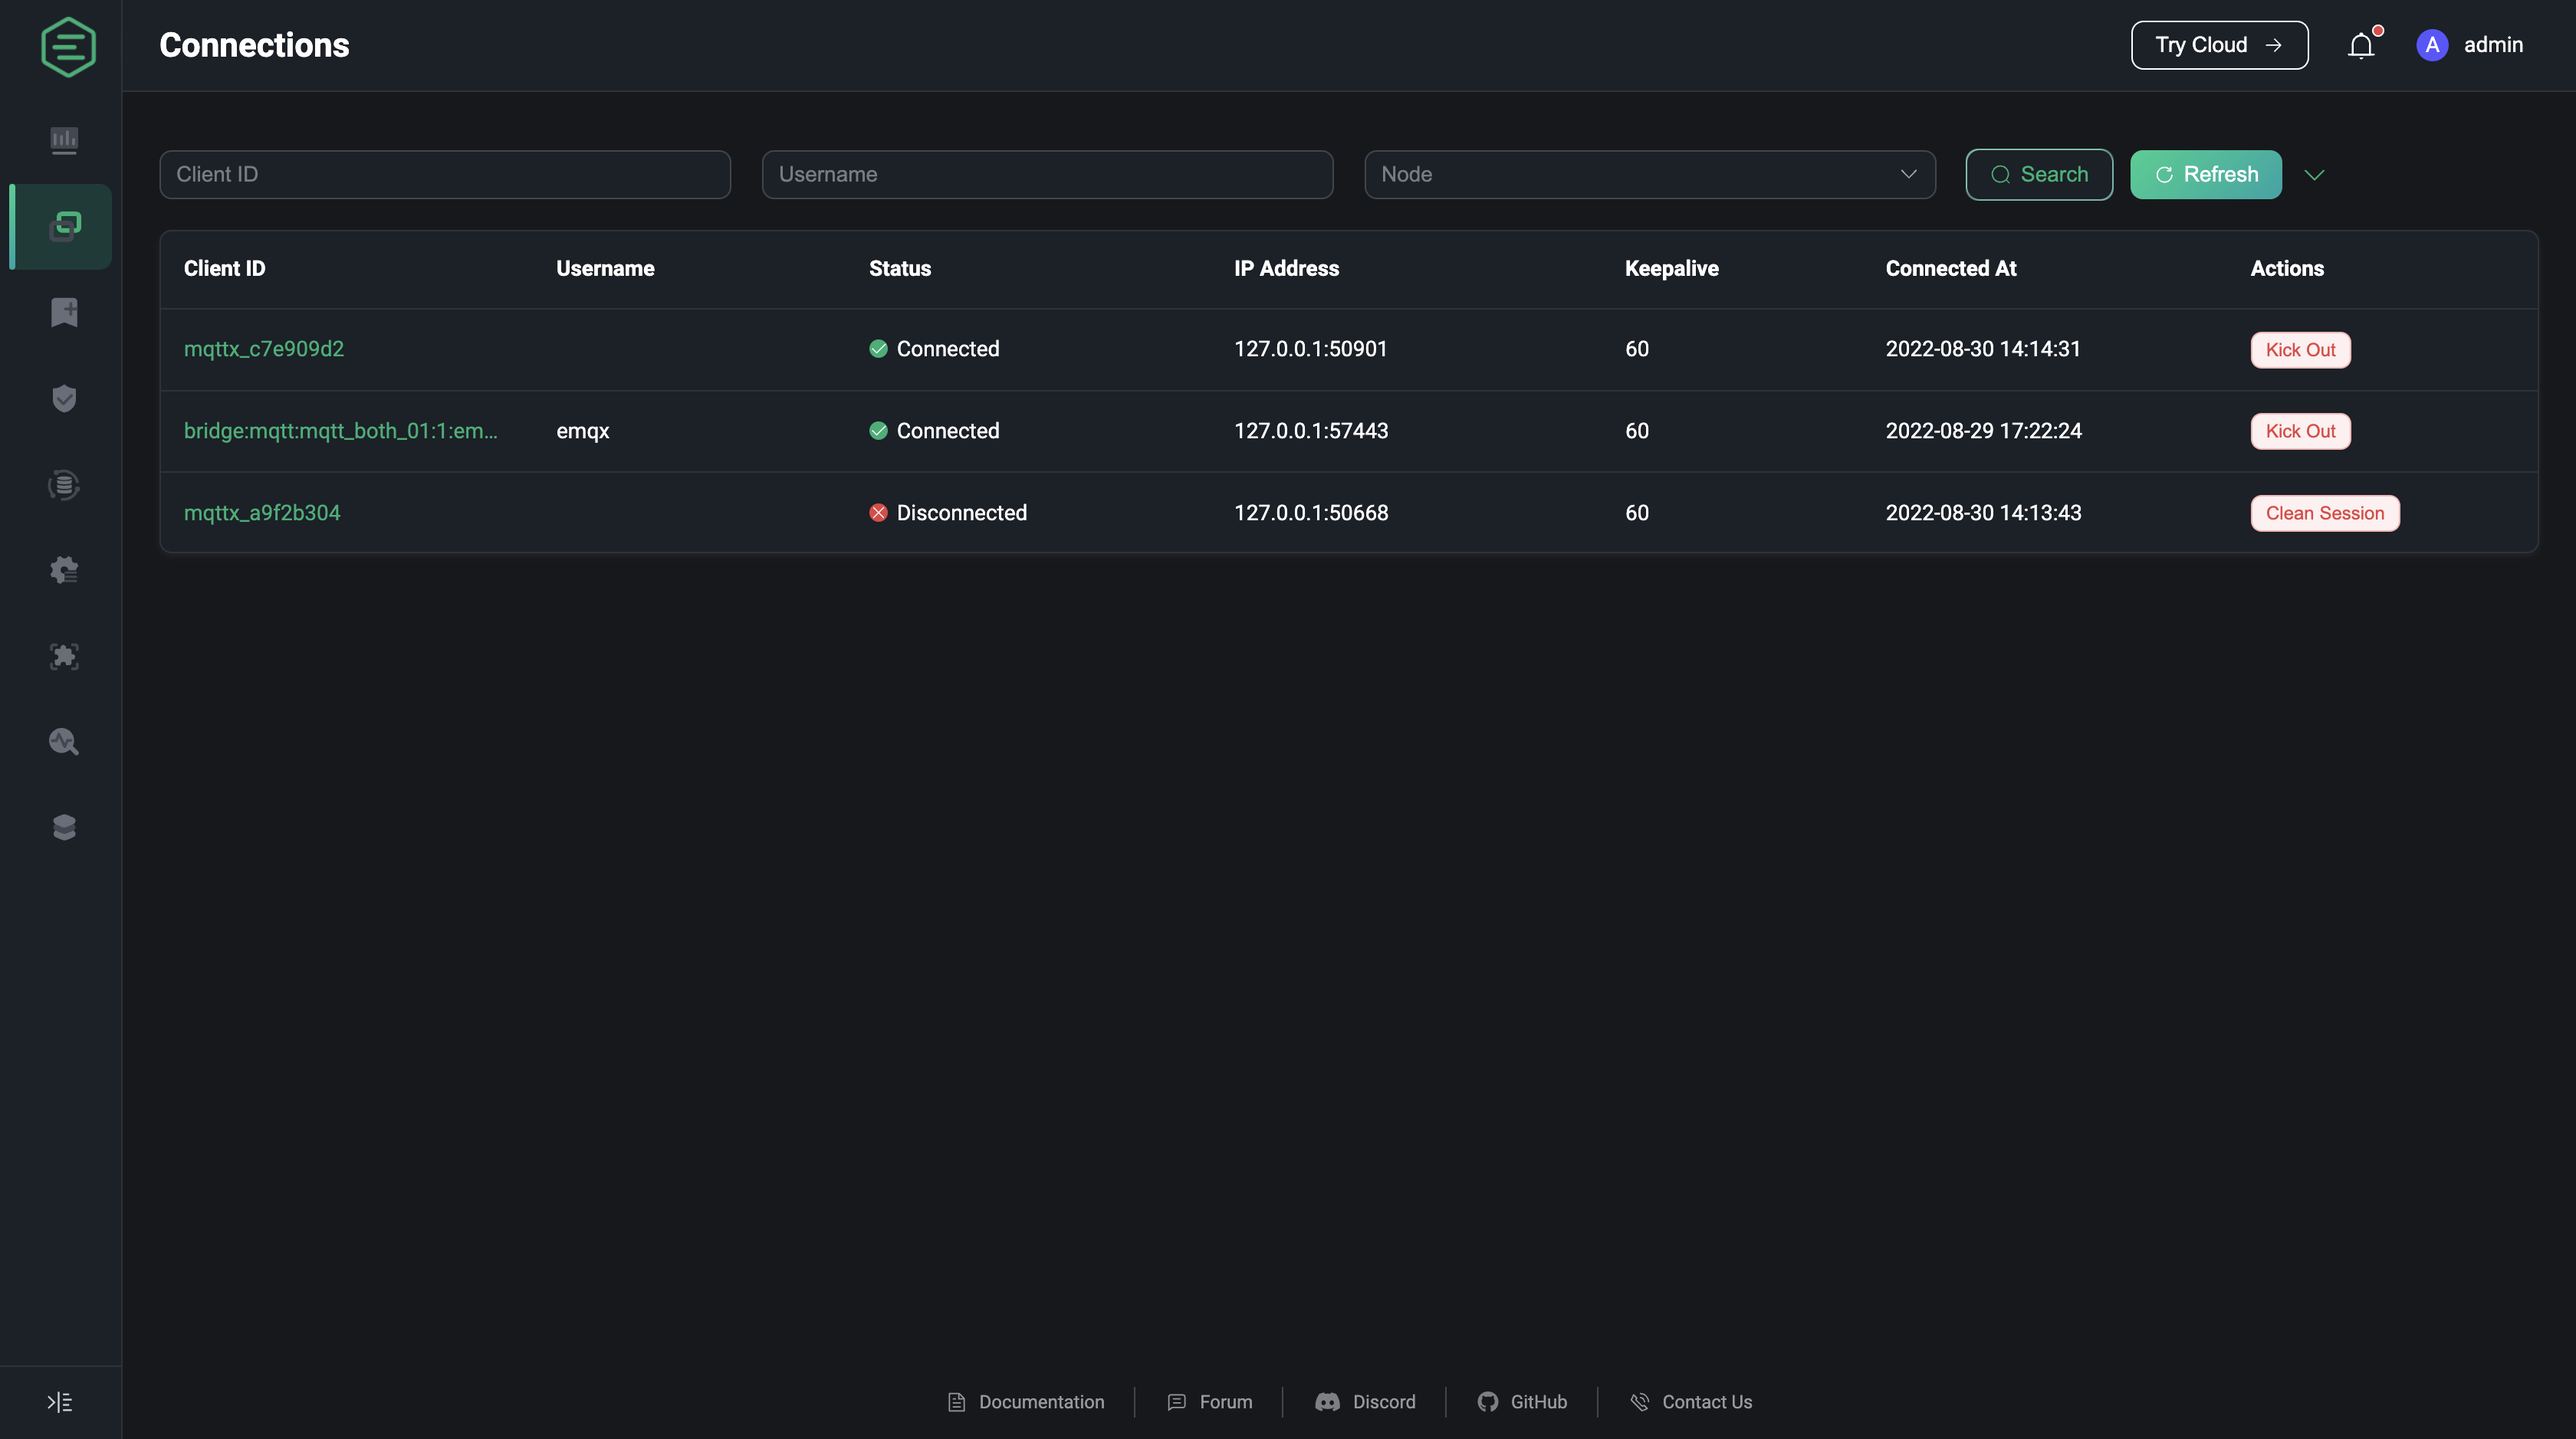
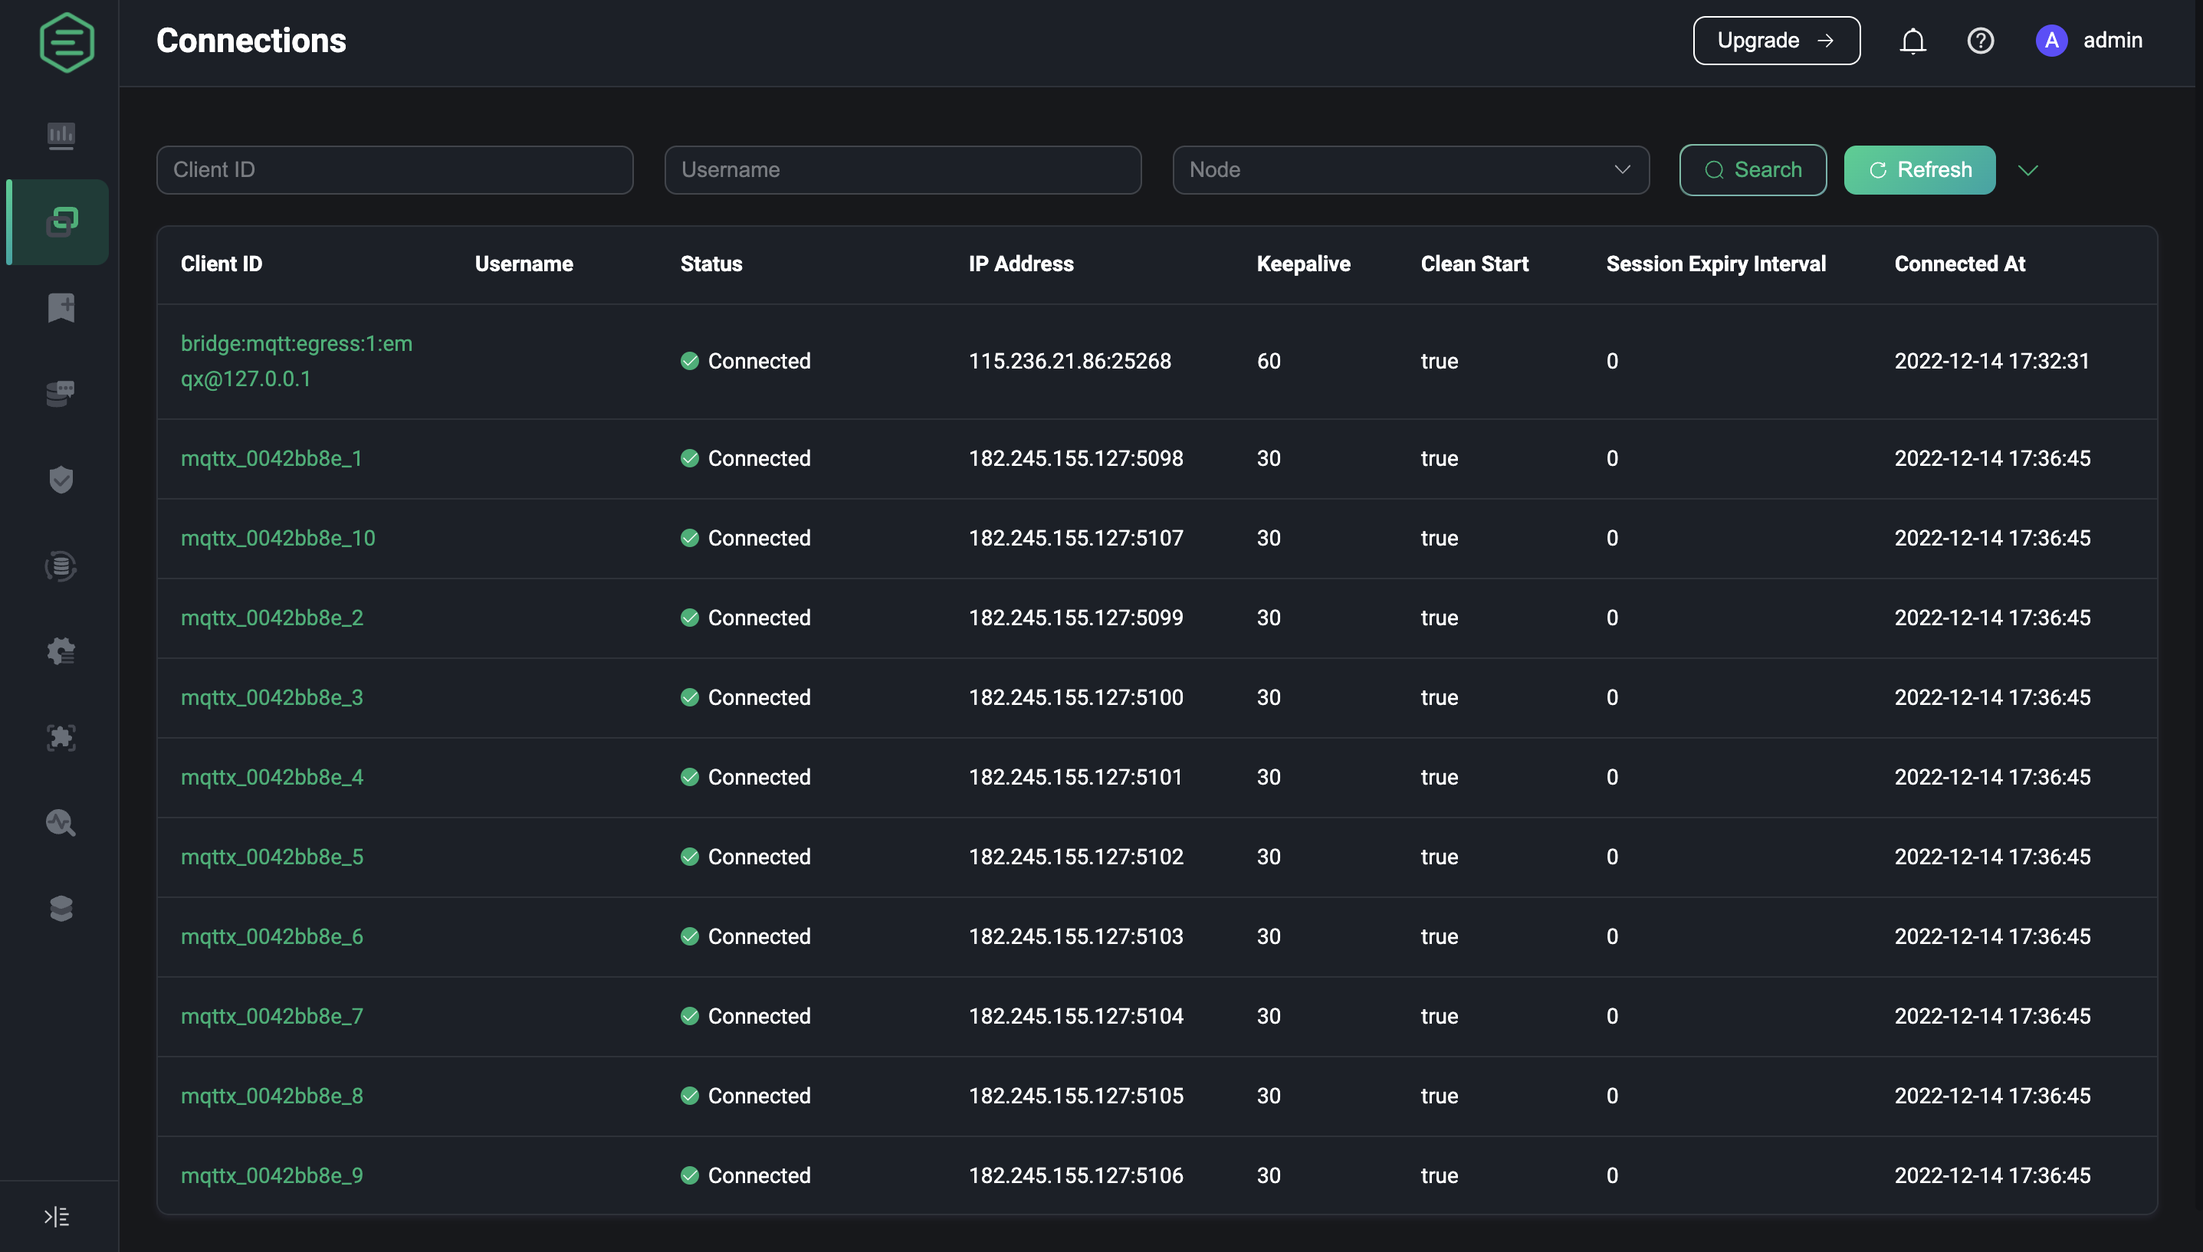
docs(dashboard): update connections

diff --git a/en_US/dashboard/connections/connections.md b/en_US/dashboard/connections/connections.md
@@ -4,7 +4,9 @@ Users can view clients currently connecting to the broker or session which has n
 
 ## Connection List
 
-In the connection list, users can view the list of connections that are currently connected to the EMQX or the session has not expired and the basic information of the connection. The list will show the ID and username set by each client when connecting to EMQX, the current connection status, the IP address of the client, the heartbeat time set for the connection which is the maximum idle time of the connection and which time the client connected to EMQX; the IP address data of the client consists of the IP address of the client and the port of the client used by the client when connecting to EMQX, and the client can be kicked out from the list.
+In the connection list, users can view the list of connections that are currently connected to the EMQX or the session has not expired and the basic information of the connection. The list will show the ID and username set by each client when connecting to EMQX, the current connection status, the IP address of the client, the heartbeat time set for the connection which is the maximum idle time of the connection and which time the client connected to EMQX, and about the session, including the Clean Start Session and Expiry Interval.
+
+The IP address data of the client consists of the IP address of the client and the port of the client used by the client when connecting to EMQX.
 
 By default only the client ID, username and node filters are displayed on the page, click on the arrow button to the right of the search bar to display all the fields available for filtering; you can perform a fuzzy search using the client ID and username to filter the list of connections, select the node to which the connection belongs, the connection status or the time range of the connection to filter the list, or enter the exact IP of the connected client to filter the clients with the target IP address, click on the Refresh button to reset all the filter fields and reload the list of connections.
 
@@ -14,6 +16,8 @@ By default only the client ID, username and node filters are displayed on the pa
 
 On the connection list page, select a connection and click on the client ID to access the connection details page for that connection.
 
+The connection details page allows you to refresh the connection information and metrics at the top manually. You can also use this page to kick out or clear the connection manually.
+
 On the connection details page, in addition to the basic connection information already displayed on the list page, more detailed information is provided for the user to view, such as the protocol version used for the connection, whether the session is cleared after ending the connection, etc. In the case of a connection with a disconnected status, the time of the last disconnection is also displayed; the left side of the connection information shows the session information for the connection, including the session expiry interval, session creation time, process stack, number of subscriptions, heap size, inflight and QoS 2 message receive queue.
 
 Below the connection information, the statistics of the current connection are displayed according to three categories: traffic sent and received, messages and number of messages, which can be viewed by the user as required.
@@ -21,4 +25,3 @@ Below the connection information, the statistics of the current connection are d
 The bottom of the details page shows the topics to which the connection is currently subscribed. Users can click on the Add Subscription button to perform a simpler subscription operation, or click on the Unsubscribe button in the subscription list to cancel a topic to which they are currently subscribed.
 
 ![Connection details](../assets/connection-details.png)
-

diff --git a/zh_CN/dashboard/connections/connections.md b/zh_CN/dashboard/connections/connections.md
@@ -1,10 +1,10 @@
 # 连接管理
 
-用户可在管理连接中，查看当前连接至服务器或会话尚未过期的客户端及某一连接的详细信息和指标统计。可使用 [MQTTX](https://mqttx.app/zh) 作为客户端连接到 EMQX 进行发布订阅。也可使用[各语言提供的客户端库](https://www.emqx.io/docs/zh/v5.0/development/client.html)快速实现客户端连接至 EMQX。
+用户可在管理连接中，查看当前连接至服务器或会话尚未过期的客户端及某一连接的详细信息和指标统计。可使用 [MQTT X](https://mqttx.app/zh) 作为客户端连接到 EMQX 进行发布订阅。也可使用[各语言提供的客户端库](https://www.emqx.io/docs/zh/v5.0/development/client.html)快速实现客户端连接至 EMQX。
 
 ## 连接管理列表
 
-在连接管理列表中，用户可查看当前接入服务器或会话尚未过期的的连接列表及连接的基本信息，列表将展示各客户端连接到 EMQX 时设置的 ID 及用户名，当前的连接状态，客户端的 IP 地址，连接设置的心跳时长即连接最大空闲时长，客户端连接至 EMQX 的时间；其中客户端的 IP 地址数据由客户端的 IP 地址及客户端连接到 EMQX 时使用的客户端的端口拼接而成，还可在列表中对客户端进行踢除操作。
+在连接管理列表中，用户可查看当前接入服务器或会话尚未过期的的连接列表及连接的基本信息，列表将展示各客户端连接到 EMQX 时设置的 ID 及用户名，当前的连接状态，客户端的 IP 地址，连接设置的心跳时长即连接最大空闲时长，还有关于连接会话的信息，包括是否清除会话及会话过期间隔，客户端连接至 EMQX 的时间；其中客户端的 IP 地址数据由客户端的 IP 地址及客户端连接到 EMQX 时使用的客户端的端口拼接而成。
 
 默认状态下页面过滤条件字段只显示客户端 ID、用户名和节点，点击搜索栏右侧箭头按钮可展示所有可用于过滤的条件字段；可使用客户端 ID 和用户名进行模糊搜索以对连接列表进行过滤，也可选择连接所属的节点，连接状态或连接的时间范围对列表进行过滤，或者精确输入连接客户端的 IP 过滤目标 IP 地址的客户端，点击刷新按钮可重置所有过滤条件并重新加载连接列表。
 
@@ -14,6 +14,8 @@
 
 在连接管理列表页面，选择某一连接，点击客户端 ID 可进入该连接的连接详情页面。
 
+连接详情页面的顶部可以手动刷新该连接的连接信息，以及查看该连接的连接指标统计，也可以手动剔除或清除该连接。
+
 在连接详情页面中，除了已经在列表页面中显示的连接基本信息外，还提供了一些更详细的信息供用户查看，如使用的连接使用的协议版本、结束连接后是否清除会话等，如果是状态为已断开的连接，还将显示上次断开连接的时间；连接信息的左侧展示了该连接的会话信息，包括会话过期间隔、会话创建时间、进程堆栈、订阅数、消息队列长度、飞行窗口长度和 QoS2 报文接收队列长度。
 
 连接信息下方根据流量收发、报文和消息数量三个类别展示了当前连接的统计指标，用户可根据需要进行查看。
@@ -21,4 +23,3 @@
 详情页面底部显示了当前连接已订阅的主题，用户可点击添加订阅按钮，进行较为简单的订阅操作，或在订阅列表中点击取消订阅按钮，取消当前订阅的某个主题。
 
 ![连接详情](../assets/connection-details.png)
-
